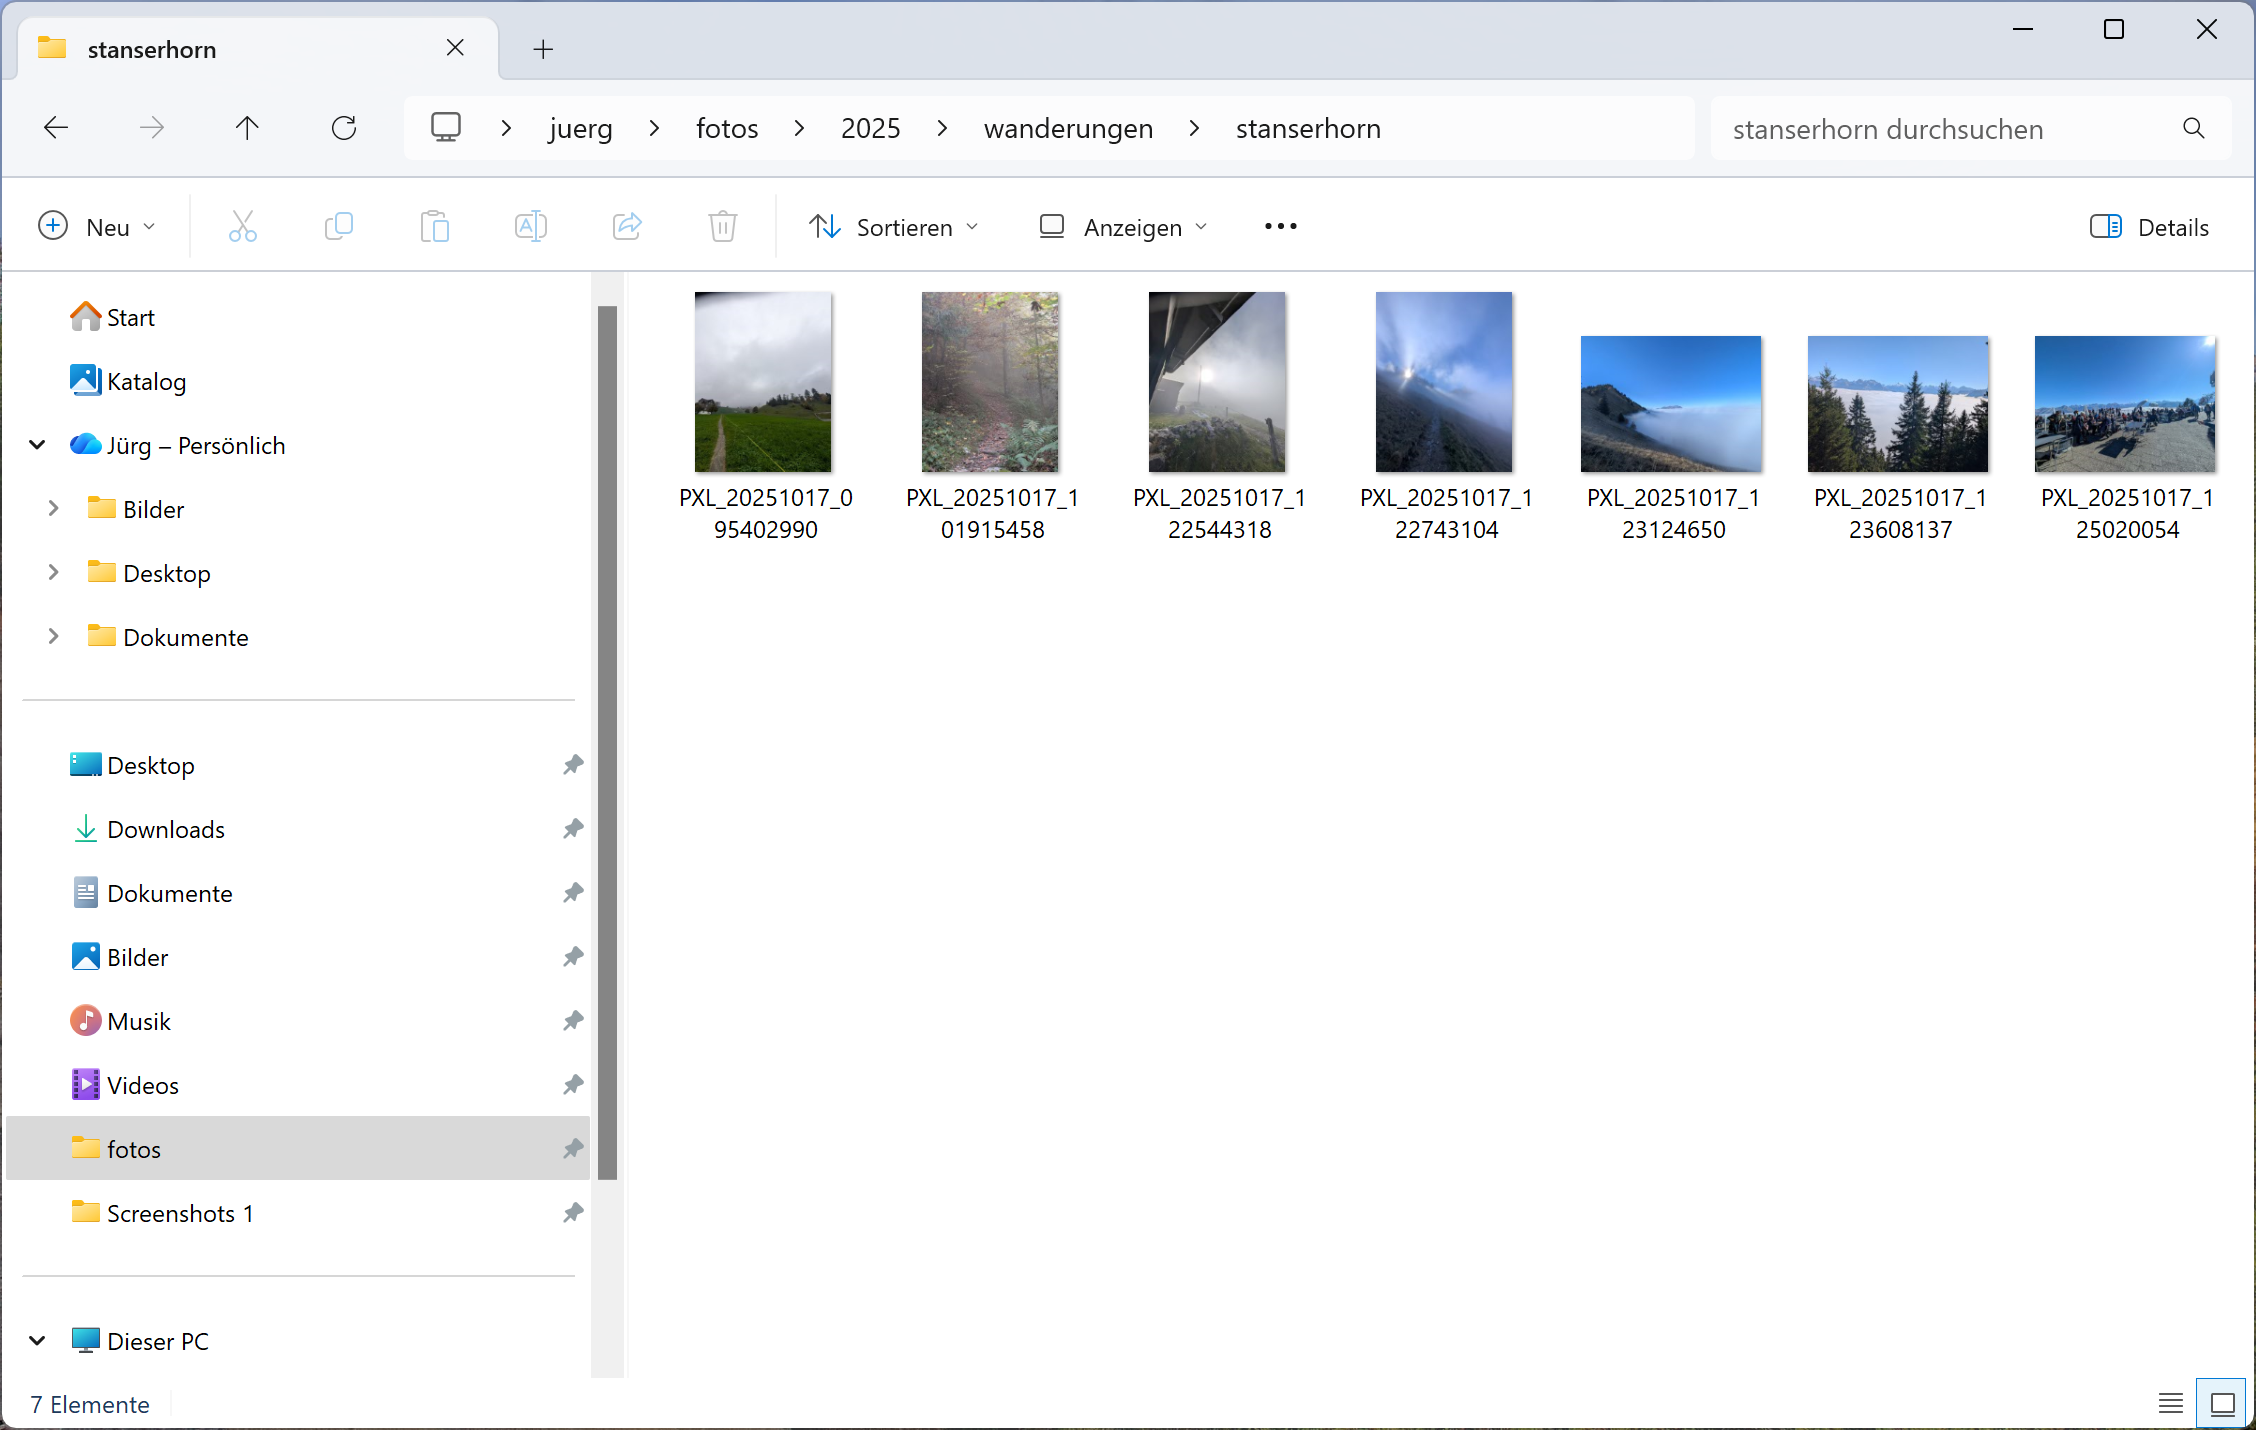
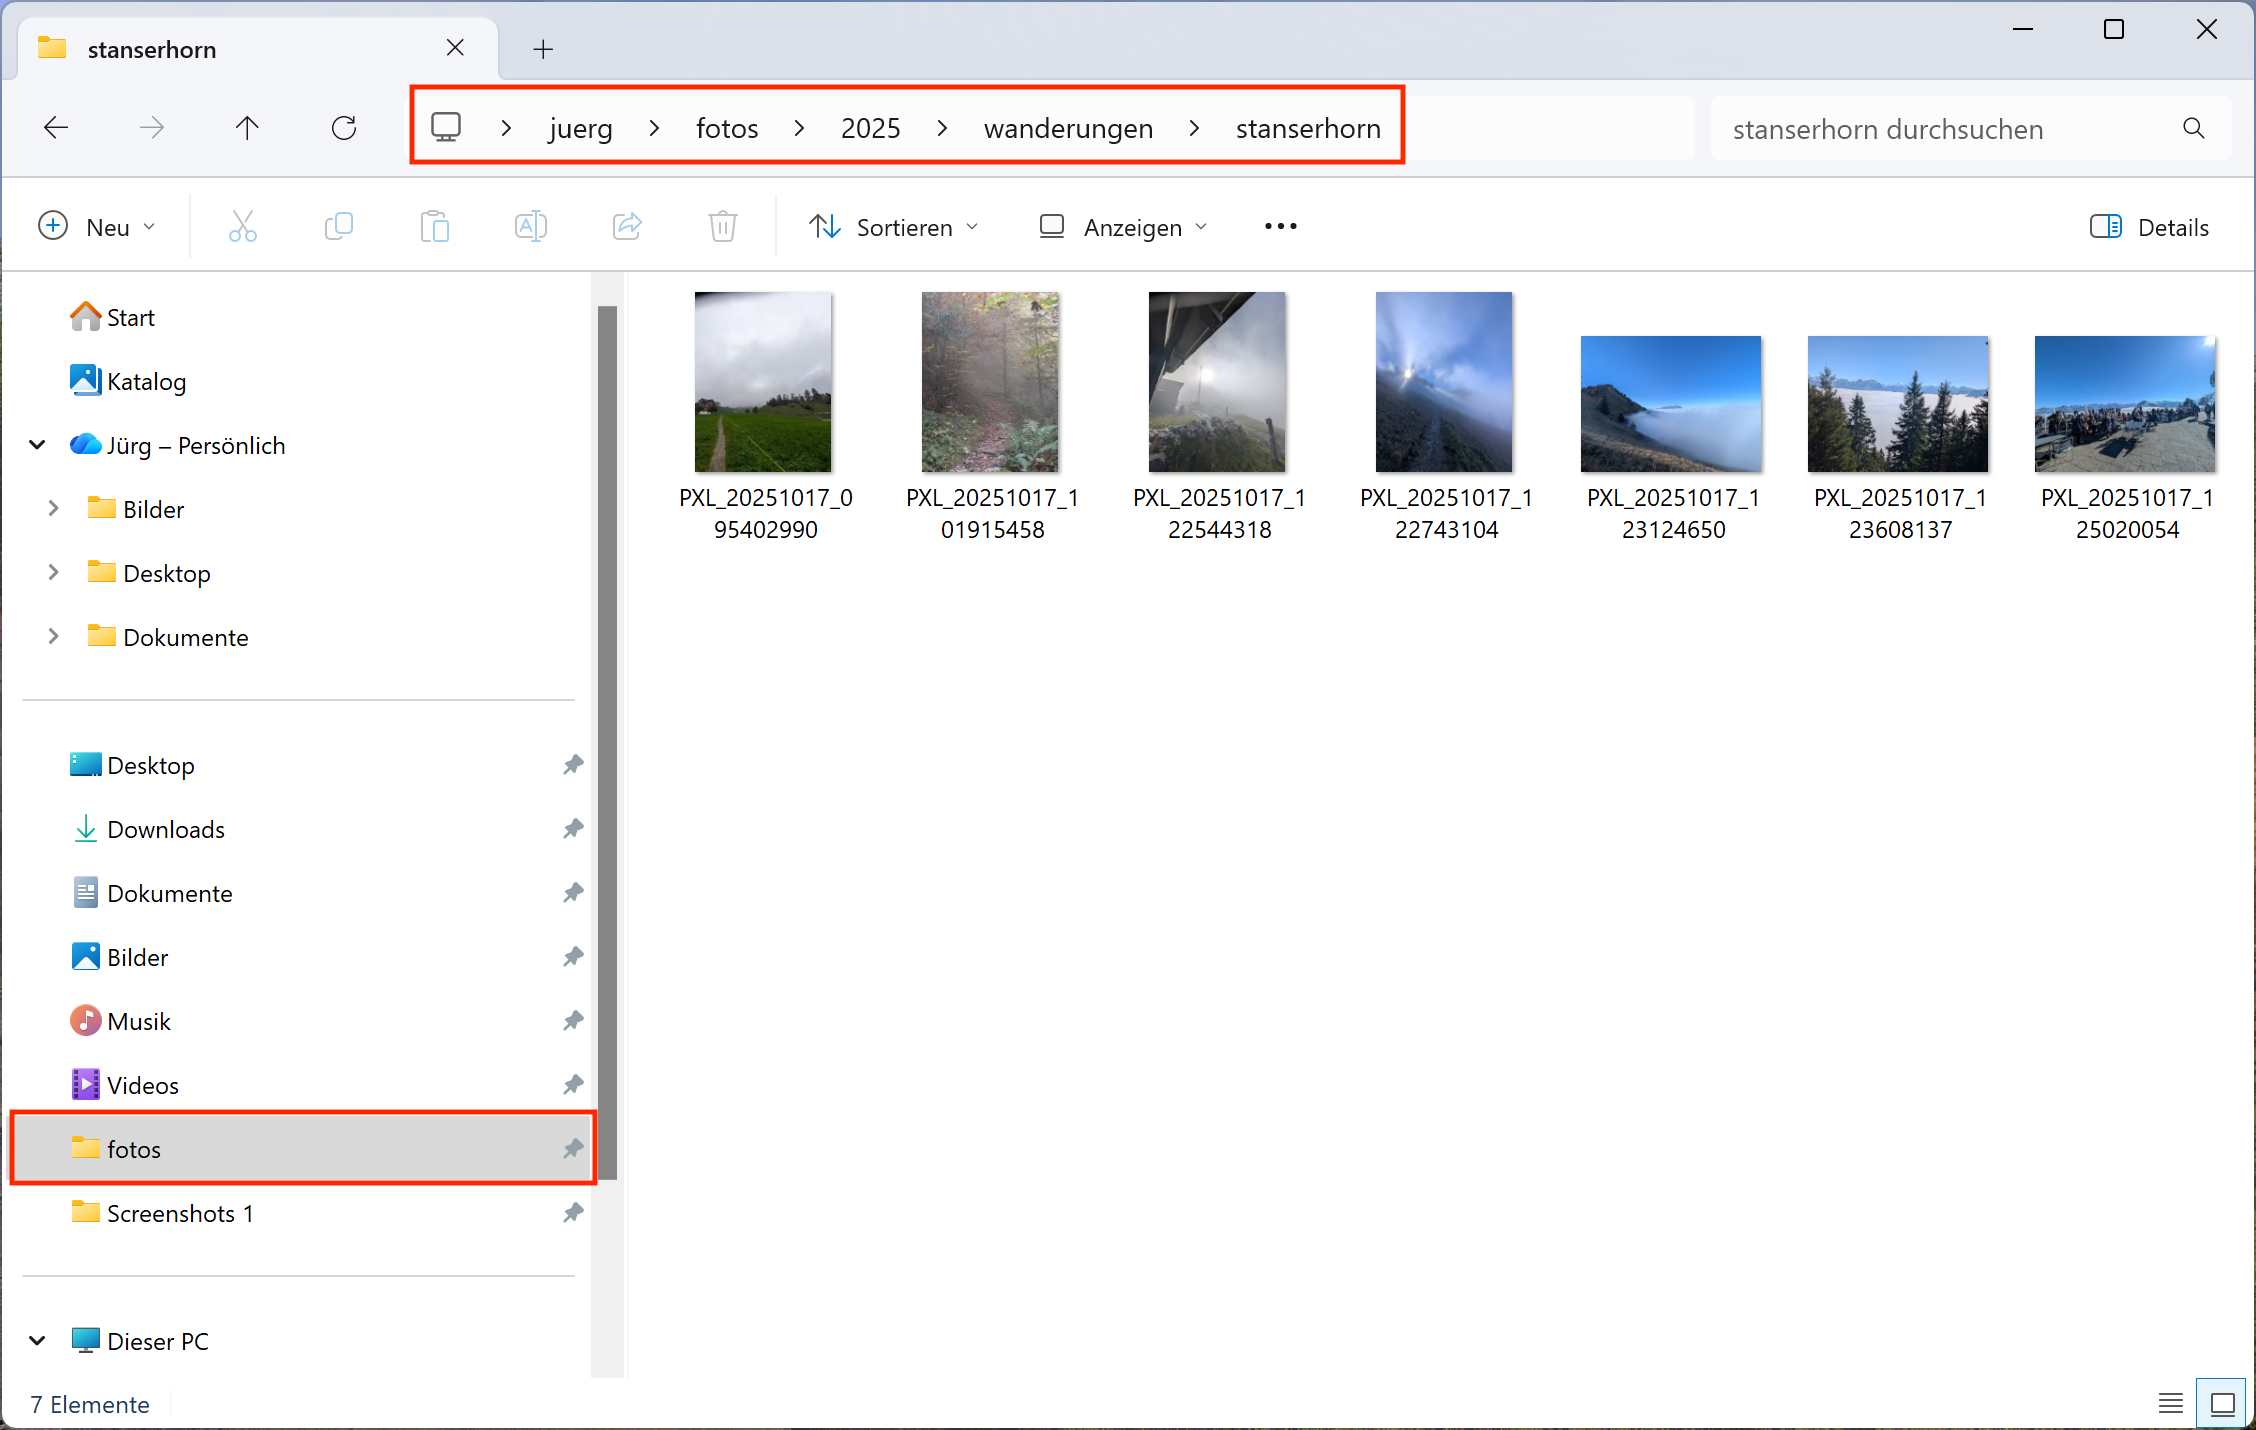
deploy: 9e8dd1b3758efe27b4fb36d73c1c349904c124d7

Changed region(s): [[0.0, 0.7692, 0.2793, 0.8308], [0.1862, 0.0923, 0.6206, 0.1231]]

diff --git a/arbeitsblatt2.html b/arbeitsblatt2.html
@@ -448,17 +448,17 @@ body.book #toc,body.book #preamble,body.book h1.sect0,body.book .sect1>h2{page-b
 <div class="sect1">
 <h2 id="_windows">Windows</h2>
 <div class="sectionbody">
-<div class="ulist">
-<ul>
+<div class="olist arabic">
+<ol class="arabic">
 <li>
 <p>Organisieren Sie Ihre Fotos mit Hilfe des Explorer.</p>
 </li>
 <li>
-<p>Erstellen Sie eine Ordner-Hierarchie auf dem Dateisystem.</p>
+<p>Erstellen Sie eine Ordner-Hierarchie auf dem Dateisystem. Als Übung im Ordner <code>2025</code> unter <code>wanderungen</code> einen neuen Ordner und benennen Sie ihn z. B. <code>stanserhorn</code>. Siehe:<br>
+<span class="image"><img src="organisation.png" alt="organisation" width="600" height="300"></span></p>
 </li>
 <li>
-<p>Erstellen Sie im Ordner <code>2025</code> unter <code>wanderungen</code> einen neuen Ordner und benennen Sie ihn z. B. <code>stanserhorn</code>. Siehe:<br>
-<span class="image"><img src="organisation.png" alt="organisation" width="600" height="300"></span>,</p>
+<p>Kopieren Sie ein paar Fotos in diesen Ordner.</p>
 </li>
 <li>
 <p>Öffnen Sie die App <strong>Fotos</strong>.</p>
@@ -466,7 +466,7 @@ body.book #toc,body.book #preamble,body.book h1.sect0,body.book .sect1>h2{page-b
 <li>
 <p>Erstellen Sie in der App einen neuen <code>Katalog</code>, indem Sie den neuen Ordner <code>stanserhorn</code> als Quelle angeben.</p>
 </li>
-</ul>
+</ol>
 </div>
 <div class="admonitionblock important">
 <table>
@@ -485,8 +485,8 @@ Unter Windows wird die Fotosammlung im <strong>Explorer</strong> ausschliesslich
 <div class="sect1">
 <h2 id="_mac">Mac</h2>
 <div class="sectionbody">
-<div class="ulist">
-<ul>
+<div class="olist arabic">
+<ol class="arabic">
 <li>
 <p>Organisieren Sie Ihre Fotos mit Hilfe der App <strong>Fotos</strong>.</p>
 </li>
@@ -499,7 +499,7 @@ Unter Windows wird die Fotosammlung im <strong>Explorer</strong> ausschliesslich
 <li>
 <p>Ziehen Sie die passenden Fotos per Drag &amp; Drop in das Album hinein.</p>
 </li>
-</ul>
+</ol>
 </div>
 <div class="admonitionblock important">
 <table>
@@ -518,7 +518,7 @@ Die App <strong>Fotos</strong> kann zum <strong>Anzeigen, Verwalten und Bearbeit
 </div>
 <div id="footer">
 <div id="footer-text">
-Last updated 2025-10-20 20:15:07 UTC
+Last updated 2025-10-20 20:27:50 UTC
 </div>
 </div>
 </body>

diff --git a/index.html b/index.html
@@ -556,7 +556,7 @@ z.B. ein Verzeichnis auf Ihrem Windows-Rechner, ein Ordner in der Cloud etc.</p>
 <div id="footer">
 <div id="footer-text">
 Version 1.0<br>
-Last updated 2025-10-20 20:15:07 UTC
+Last updated 2025-10-20 20:27:51 UTC
 </div>
 </div>
 </body>

diff --git a/abschluss_fotokurs.html b/abschluss_fotokurs.html
@@ -527,7 +527,7 @@ einen Rechtsklick auf das Bild zum Menu <code>Bild speichern unter&#8230;&#8203;
 </div>
 <div id="footer">
 <div id="footer-text">
-Last updated 2025-10-20 20:15:07 UTC
+Last updated 2025-10-20 20:27:50 UTC
 </div>
 </div>
 </body>

diff --git a/arbeitsblatt1.html b/arbeitsblatt1.html
@@ -636,7 +636,7 @@ Stellen Sie sicher, dass Sie Ihr Benutzername und Passwort für Ihr Konto für d
 </div>
 <div id="footer">
 <div id="footer-text">
-Last updated 2025-10-20 20:15:07 UTC
+Last updated 2025-10-20 20:27:50 UTC
 </div>
 </div>
 </body>

diff --git a/arbeitsblatt3.html b/arbeitsblatt3.html
@@ -576,7 +576,7 @@ einen Rechtsklick auf das Bild zum Menu <code>Bild speichern unter&#8230;&#8203;
 </div>
 <div id="footer">
 <div id="footer-text">
-Last updated 2025-10-20 20:15:07 UTC
+Last updated 2025-10-20 20:27:50 UTC
 </div>
 </div>
 </body>

diff --git a/bildformate.html b/bildformate.html
@@ -545,7 +545,7 @@ body.book #toc,body.book #preamble,body.book h1.sect0,body.book .sect1>h2{page-b
 </div>
 <div id="footer">
 <div id="footer-text">
-Last updated 2025-10-20 20:15:07 UTC
+Last updated 2025-10-20 20:27:51 UTC
 </div>
 </div>
 </body>

diff --git a/cloud-services.html b/cloud-services.html
@@ -532,7 +532,7 @@ body.book #toc,body.book #preamble,body.book h1.sect0,body.book .sect1>h2{page-b
 </div>
 <div id="footer">
 <div id="footer-text">
-Last updated 2025-10-20 20:15:07 UTC
+Last updated 2025-10-20 20:27:51 UTC
 </div>
 </div>
 </body>

diff --git a/voraussetzungen.html b/voraussetzungen.html
@@ -614,7 +614,7 @@ Wenn Sie ein Notebook verwenden, schliessen Sie es während des Kurses an das Ne
 </div>
 <div id="footer">
 <div id="footer-text">
-Last updated 2025-10-20 20:15:07 UTC
+Last updated 2025-10-20 20:27:51 UTC
 </div>
 </div>
 </body>

diff --git a/begriffe.html b/begriffe.html
@@ -545,7 +545,7 @@ Datei-Explorer.</p>
 </div>
 <div id="footer">
 <div id="footer-text">
-Last updated 2025-10-20 20:15:07 UTC
+Last updated 2025-10-20 20:27:50 UTC
 </div>
 </div>
 </body>

diff --git a/gallery.html b/gallery.html
@@ -639,7 +639,7 @@ Bild-9</p>
 </div>
 <div id="footer">
 <div id="footer-text">
-Last updated 2025-10-20 20:15:07 UTC
+Last updated 2025-10-20 20:27:51 UTC
 </div>
 </div>
 </body>
